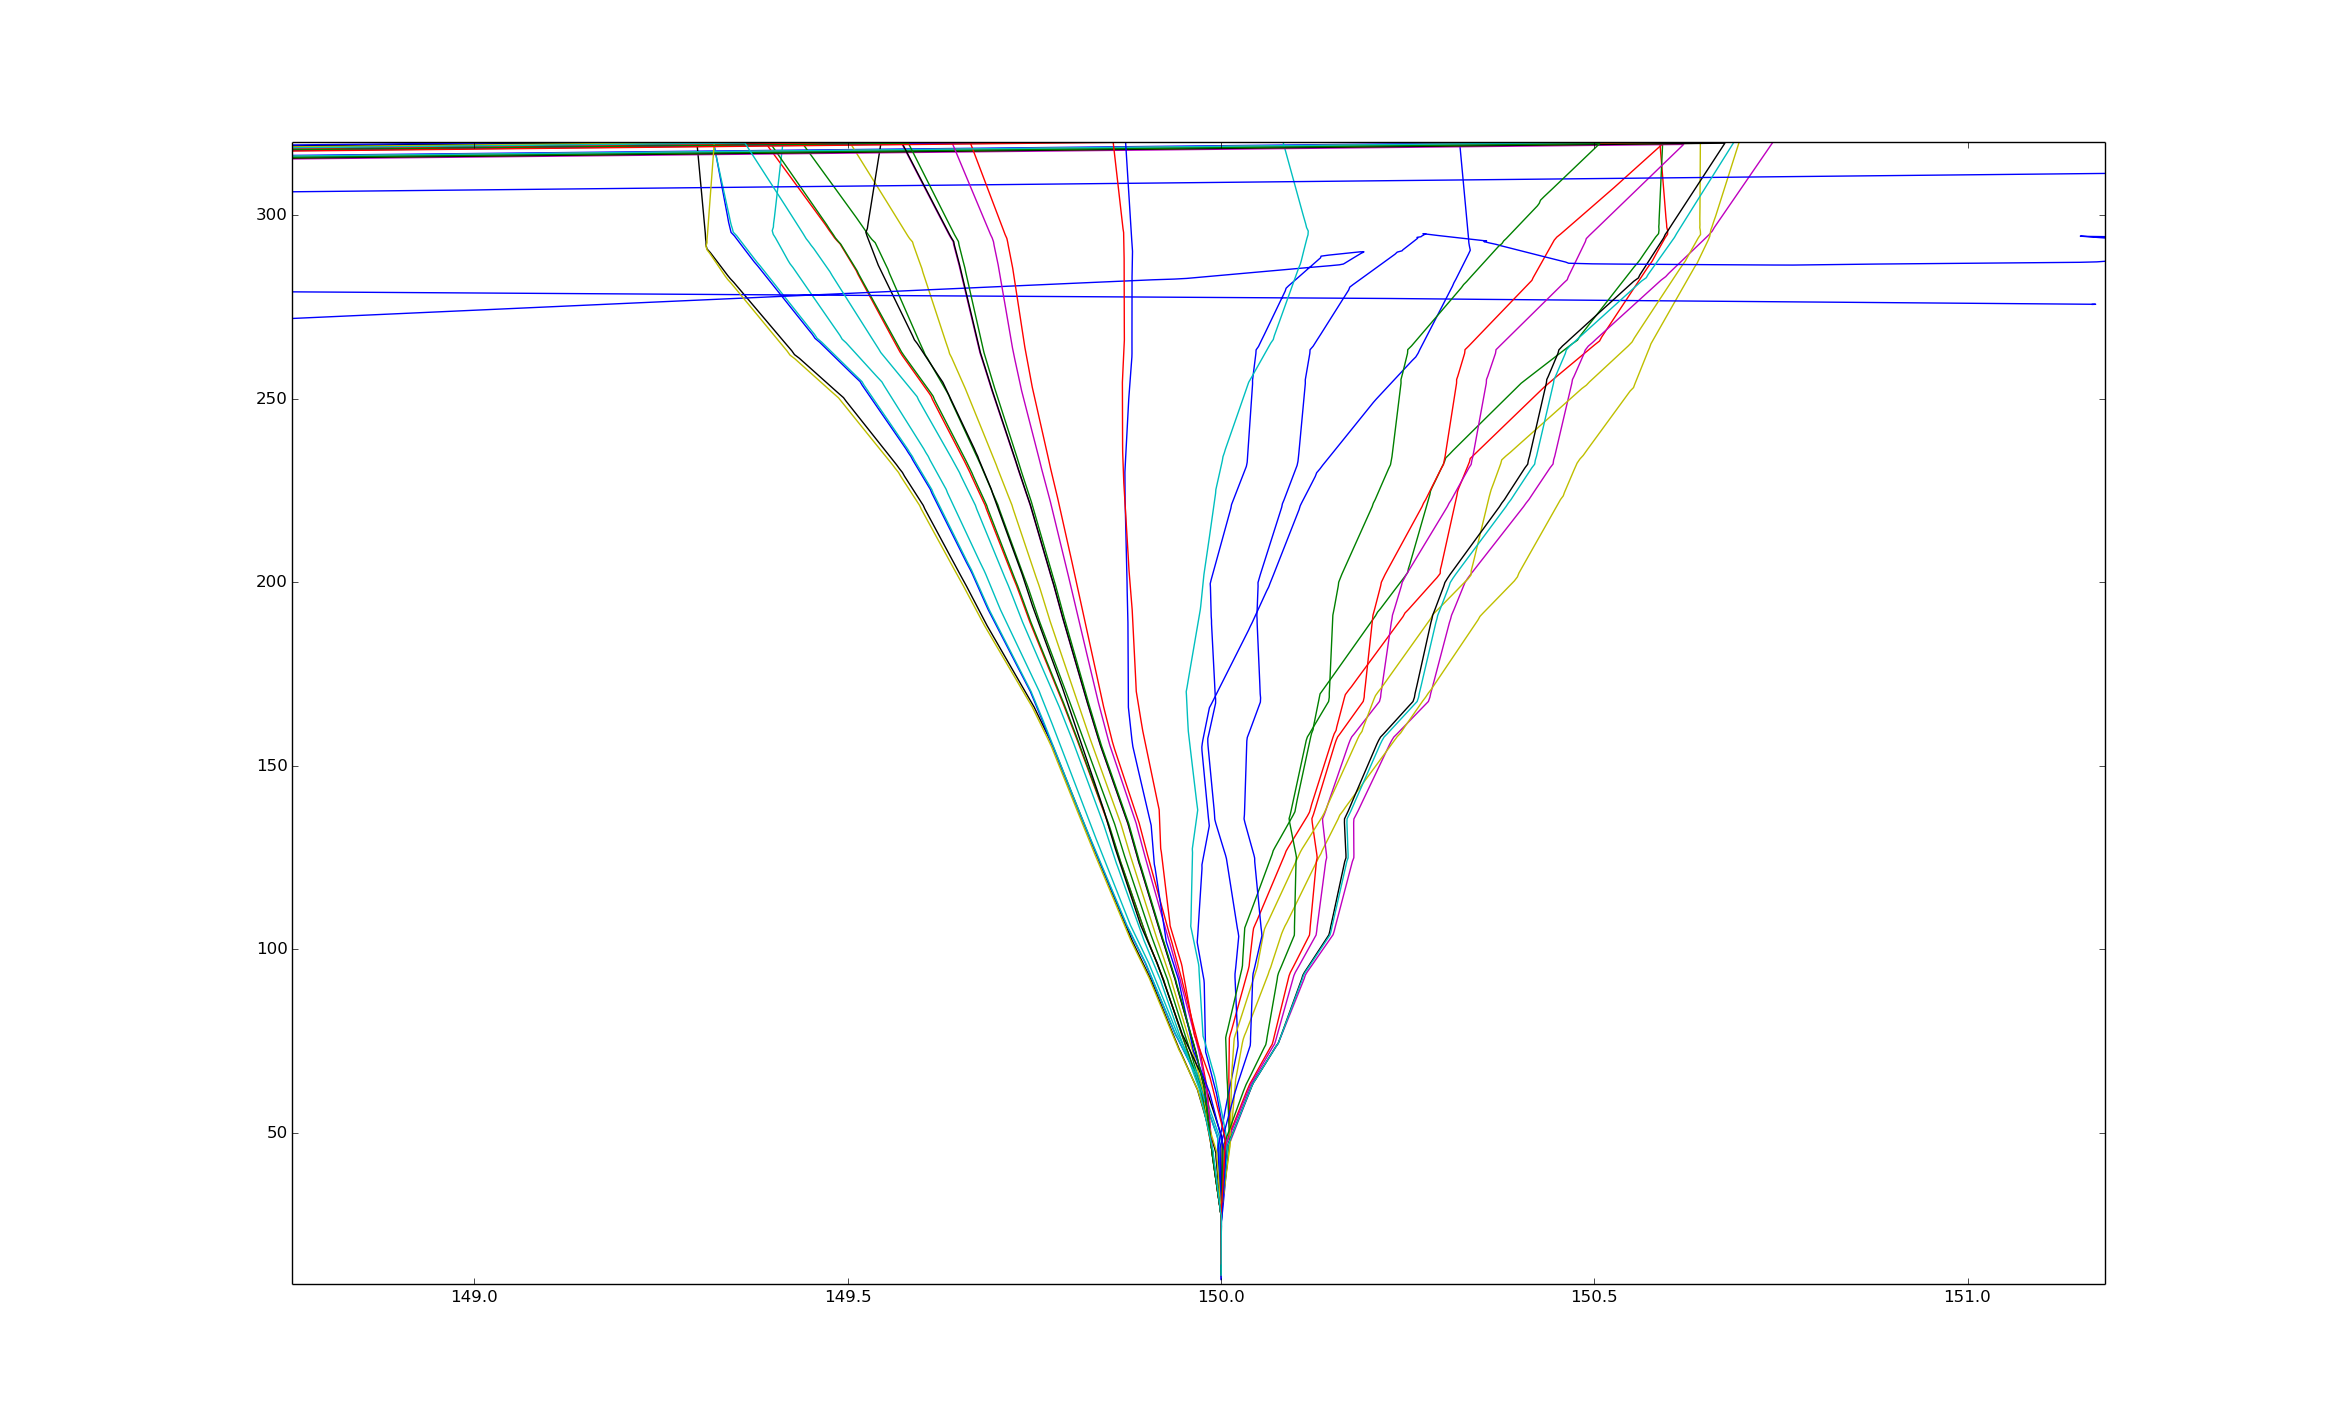
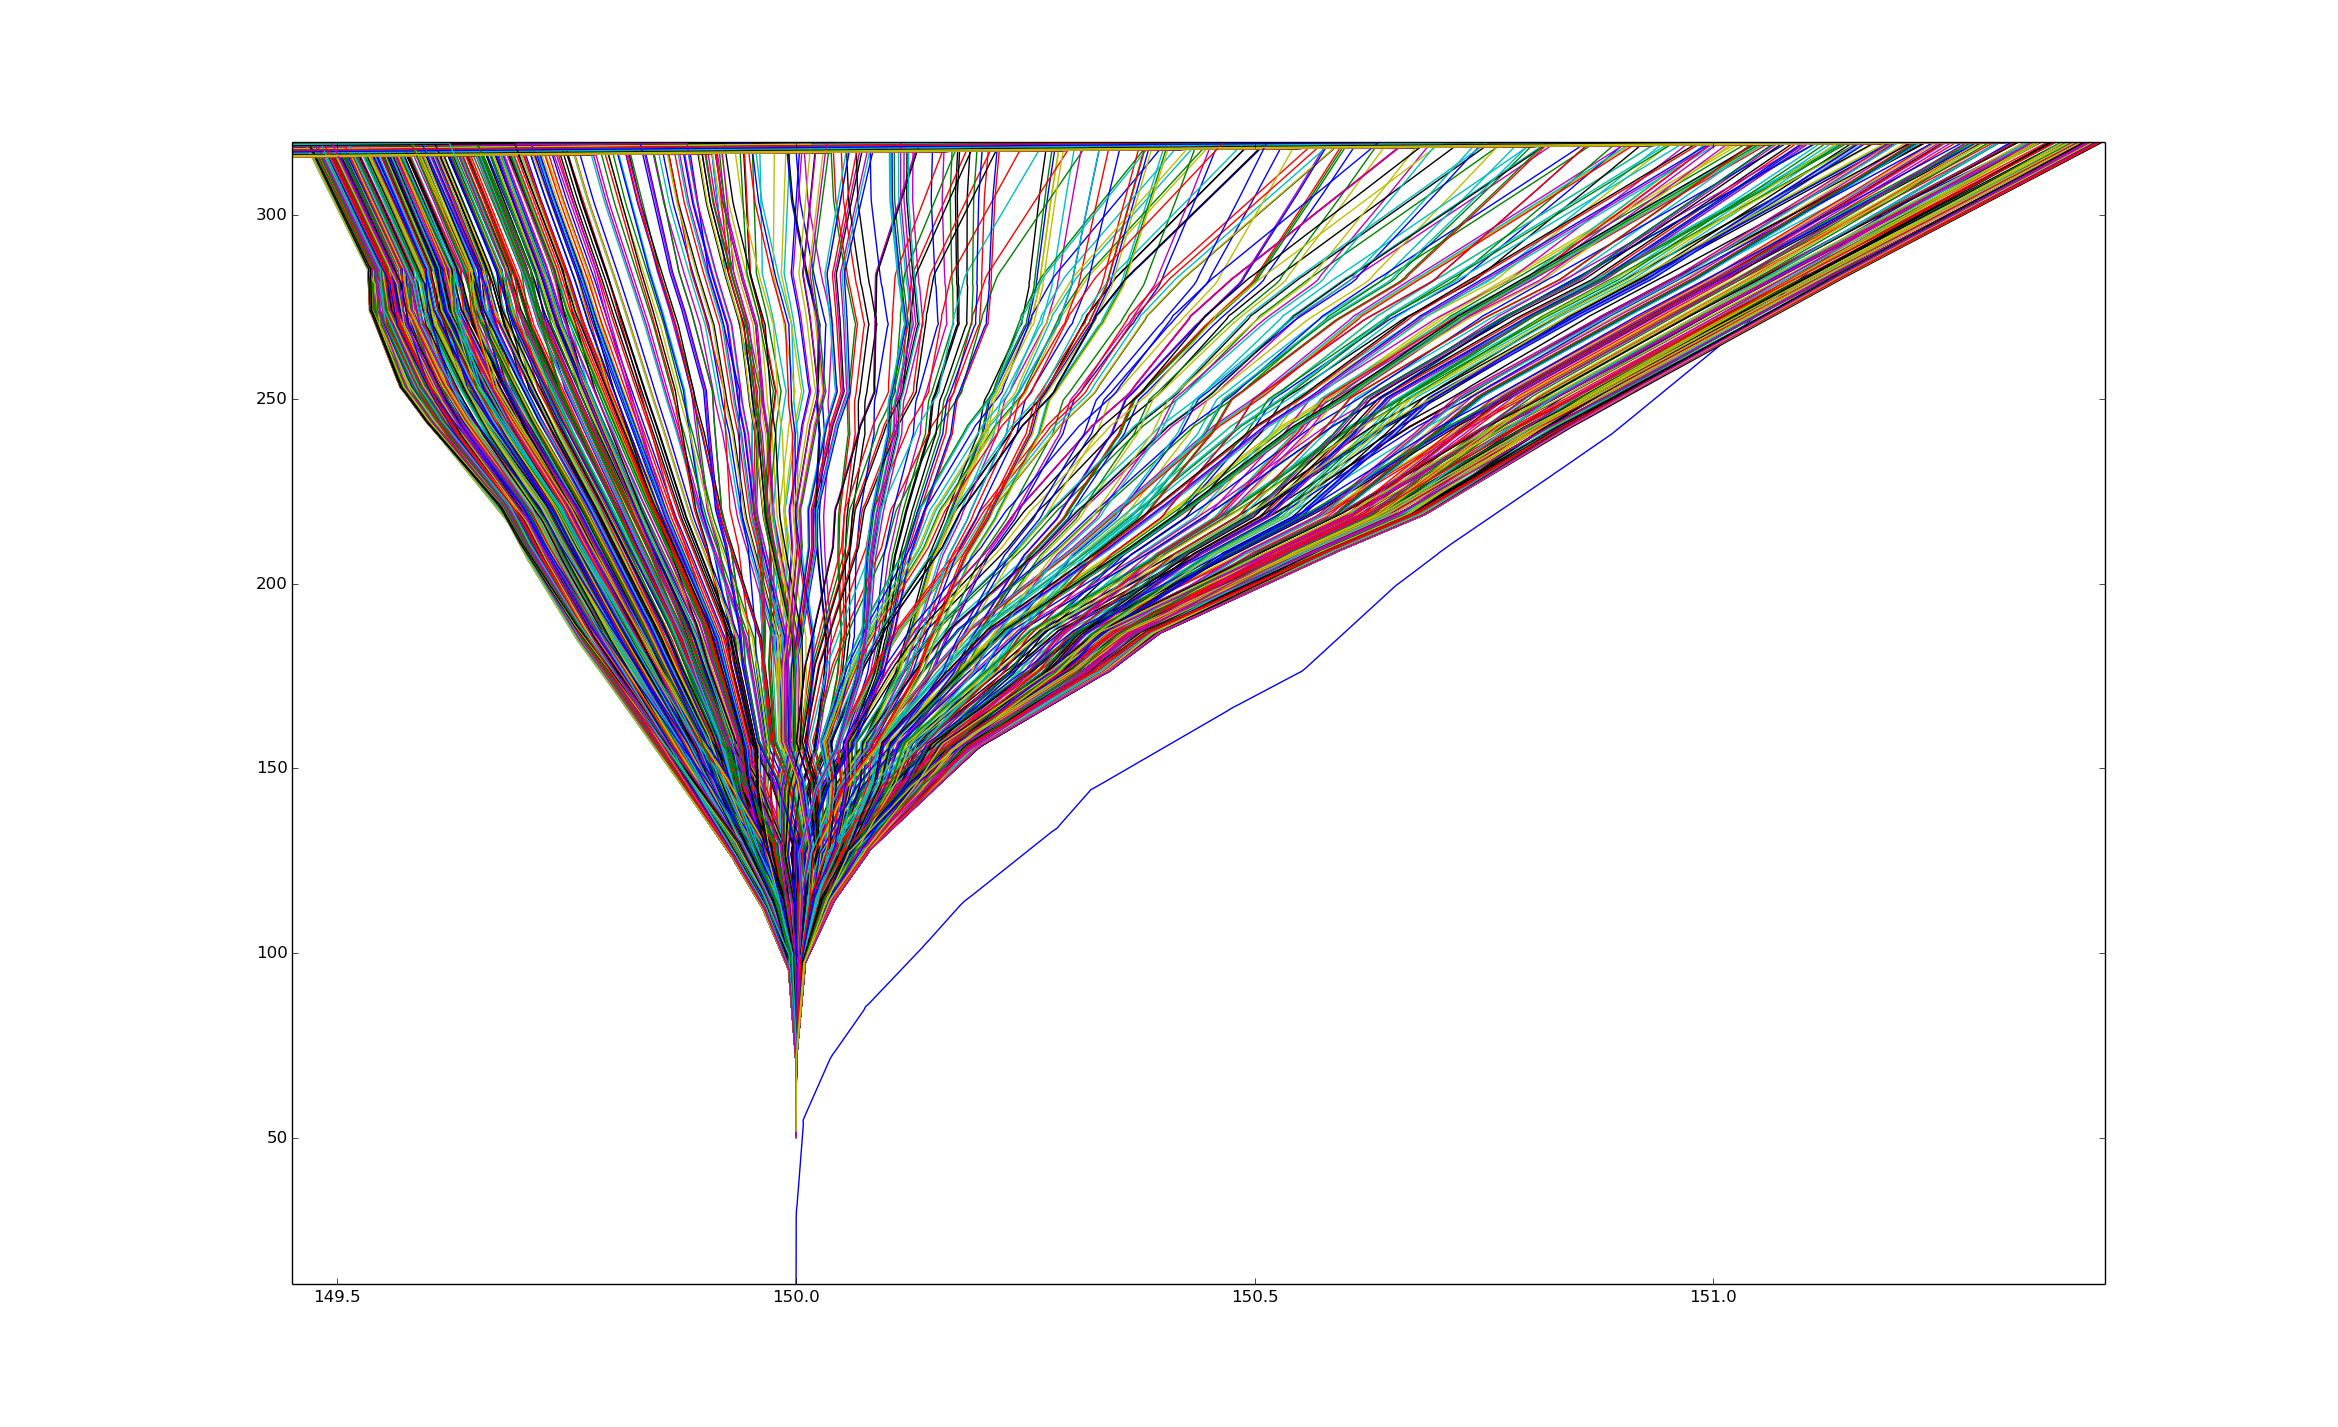
Single slit research
- no interference

Changed region(s): [[0.1249, 0.0925, 0.9055, 0.8325]]

diff --git a/main.py b/main.py
@@ -38,6 +38,8 @@ class LampsRunner(object):
         self.a_ball_x            = '10'
         self.a_ball_y_m          = 'a_ball_y'
         self.a_ball_y            = '10'
+        self.a_ball_y_vel_m      = 'a_ball_y_vel'
+        self.a_ball_y_vel        = '0.013'
 
     def set_membrane_bond_harmonic_constant(self, kz):
         """ wow """
@@ -91,6 +93,10 @@ class LampsRunner(object):
         """ STarting position x """
         self.a_ball_x = str(x)
 
+    def set_a_ball_y_vel(self, vel):
+        """ Starting velocity """
+        self.a_ball_y_vel = str(vel)
+
     def run_it(self, filepath):
 	""" Runs lammps """
         # Unix mp-ready version
@@ -108,6 +114,7 @@ class LampsRunner(object):
                     '-var', self.mb_bond_r0_marker, self.mb_bond_r0,
                     '-var', self.a_ball_x_m, self.a_ball_x,
                     '-var', self.a_ball_y_m, self.a_ball_y,
+                    '-var', self.a_ball_y_vel_m, self.a_ball_y_vel,
                     '-in', filepath]
 
         # Windows slow version
@@ -170,15 +177,19 @@ if __name__ == '__main__':
     runner.set_a_ball_mass(a_ball_mass)
 
     # Membrane size
-    sheet_radius    = 70
+    sheet_radius    = 88
     runner.set_sheet_radius(sheet_radius)
 
     # Ball starting postion-y
-    y_position = [10 + 5 * np.random.random() for _ in range(400)]
+    y_position = [50 + 5 * np.random.random() for _ in range(1000)]
 
     # And x
     x_position = 150
     runner.set_a_ball_x(x_position)
+
+    # Starting velocity
+    y_velocity = 0.01 + 19*0.001
+    runner.set_a_ball_y_vel(y_velocity)
 
     # Declare score paths
     ball_file = 'data/a_ball.dat'
@@ -189,7 +200,7 @@ if __name__ == '__main__':
     membranes_z = []
 
     # Final settings
-    runner.set_number_of_iterations(7000)
+    runner.set_number_of_iterations(6000)
     runner.set_number_of_cores(8)
 
     for val in y_position:
